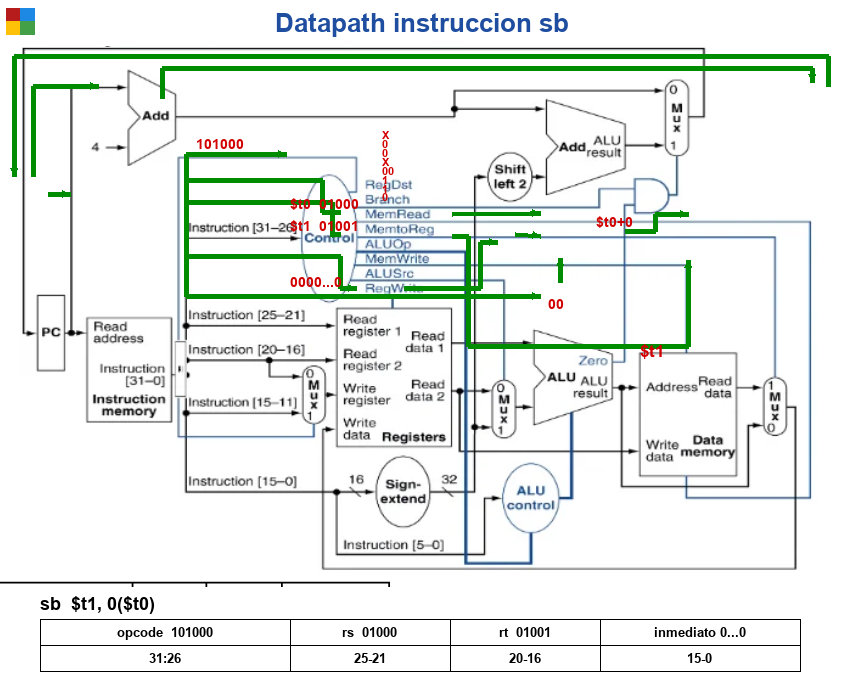
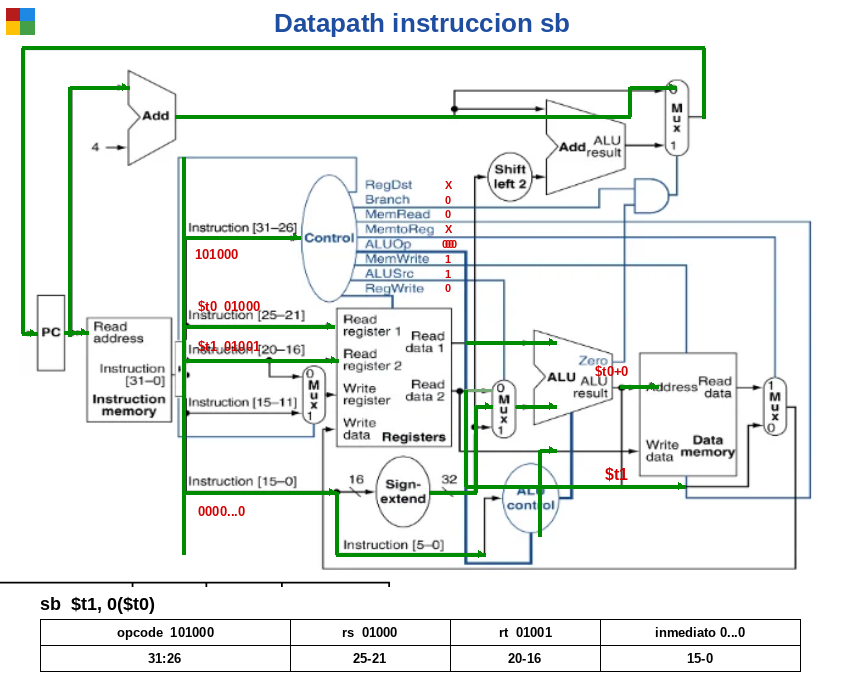
Corregir alineacion del datapath de sb midiendo coordenadas reales
El script anterior (gen_sb_v3.py) dibujaba las lineas verdes con
coordenadas estimadas a ojo que no coincidian con los buses del
diagrama base. gen_sb_v4.py mide las posiciones exactas de cada
wire/puerto por deteccion de pixeles sobre datapath_base_PH.png y
regenera figuras/slide_sb_PH.png con el camino activo alineado.

diff --git a/gen_sb_v4.py b/gen_sb_v4.py
@@ -1,0 +1,139 @@
+from PIL import Image, ImageDraw, ImageFont
+import math
+
+BASE = "datapath_base_PH.png"
+OUT = "figuras/slide_sb_PH.png"
+
+base = Image.open(BASE).convert("RGBA")
+W, H = base.size  # 844 x 541
+
+GREEN = (0, 140, 0, 255)
+RED   = (210, 0, 0, 255)
+ov = Image.new("RGBA", (W, H), (0, 0, 0, 0))
+d = ImageDraw.Draw(ov)
+LW = 4
+
+
+def seg(pts, color=GREEN, w=LW):
+    for i in range(len(pts) - 1):
+        d.line([pts[i], pts[i + 1]], fill=color, width=w)
+
+
+def tip(p1, p2, color=GREEN, w=LW):
+    d.line([p1, p2], fill=color, width=w)
+    a = math.atan2(p2[1] - p1[1], p2[0] - p1[0])
+    s = 7
+    d.polygon([p2,
+               (p2[0] - s * math.cos(a - 0.45), p2[1] - s * math.sin(a - 0.45)),
+               (p2[0] - s * math.cos(a + 0.45), p2[1] - s * math.sin(a + 0.45))],
+              fill=color)
+
+
+# ════════ CAMINO ACTIVO (verde) — coordenadas verificadas por deteccion de pixeles ════════
+
+# 1. PC -> Instruction memory (fetch)
+seg([(64, 286), (88, 286)]); tip((80, 286), (88, 286))
+
+# 2. PC -> Add (PC+4)
+seg([(70, 290), (70, 41), (129, 41)]); tip((122, 41), (129, 41))
+
+# 3. PC+4 (siempre activo): Add -> Mux(PCSrc, input 0) -> vuelta a PC
+seg([(175, 70), (630, 70), (630, 41), (676, 41)]); tip((668, 41), (676, 41))
+seg([(704, 72), (704, 2), (22, 2), (22, 287), (37, 287)]); tip((30, 287), (37, 287))
+
+# 4. Bus de instruccion (tronco vertical)
+seg([(183, 111), (183, 508)])
+
+# opcode [31-26] -> Control
+seg([(183, 191), (300, 191)]); tip((292, 191), (300, 191))
+# rs [25-21] -> Read register 1
+seg([(183, 280), (334, 280)]); tip((326, 280), (334, 280))
+# rt [20-16] -> Read register 2
+seg([(183, 314), (338, 314)]); tip((330, 314), (338, 314))
+# offset [15-0] -> Sign-extend
+seg([(183, 446), (336, 446)]); tip((328, 446), (336, 446))
+# funct [5-0] -> ALU control
+seg([(336, 446), (336, 508), (485, 508)]); tip((477, 508), (485, 508))
+
+# 5. Read data 1 ($t0) -> ALU (primer operando)
+seg([(465, 296), (556, 296)]); tip((548, 296), (556, 296))
+
+# 6. Read data 2 ($t1) -> MUX ALUSrc input 0 (no seleccionada)
+seg([(465, 344), (492, 344)], color=(120, 170, 120, 255), w=3)
+
+# 7. Read data 2 ($t1) -> Data memory Write data  (CAMINO DE STORE, clave)
+seg([(465, 344), (465, 440), (685, 440)]); tip((677, 440), (685, 440))
+
+# 8. Sign-extend (offset=0) -> MUX ALUSrc input 1 (SELECCIONADA, ALUSrc=1)
+seg([(429, 446), (476, 446), (476, 360), (492, 360)]); tip((484, 360), (492, 360))
+
+# 9. MUX ALUSrc -> ALU segundo operando
+seg([(516, 360), (556, 360)]); tip((548, 360), (556, 360))
+
+# 10. ALU control -> ALU (indica sumar)
+seg([(540, 490), (540, 404), (556, 404)]); tip((548, 404), (556, 404))
+
+# 11. ALU result -> Data memory Address
+seg([(620, 340), (658, 340)]); tip((650, 340), (658, 340))
+
+# ════════ INACTIVO: no se pinta (write-back, RegDst mux, Data memory read, branch, shift) ════════
+
+# ════════ VALORES EN ROJO ════════
+FONT_PATH = "/usr/share/fonts/truetype/liberation/LiberationSans-Bold.ttf"
+fr = ImageFont.truetype(FONT_PATH, 16)
+frs = ImageFont.truetype(FONT_PATH, 13)
+fsig = ImageFont.truetype(FONT_PATH, 11)
+
+
+def rt_text(xy, txt, font=fr, anchor="lm"):
+    d.text(xy, txt, fill=RED, font=font, anchor=anchor)
+
+
+rt_text((195, 208), "101000", frs)          # opcode sb (binario)
+rt_text((198, 260), "$t0  01000", frs)      # rs = $t0
+rt_text((198, 300), "$t1  01001", frs)      # rt = $t1 (dato a guardar)
+rt_text((198, 465), "0000...0", frs)        # inmediato (offset)
+rt_text((595, 325), "$t0+0", frs)           # direccion calculada por la ALU
+rt_text((605, 428), "$t1", fr)              # dato escrito en memoria
+rt_text((442, 198), "00", fsig)             # ALUOp
+
+# señales de control (a la derecha de sus etiquetas, misma fila que el texto azul)
+sig_vals = [("X", 139), ("0", 154), ("0", 168), ("X", 183),
+            ("00", 198), ("1", 213), ("1", 228), ("0", 242)]
+for v, y in sig_vals:
+    d.text((445, y), v, fill=RED, font=fsig, anchor="lm")
+
+result = Image.alpha_composite(base, ov).convert("RGB")
+
+# ════════ TITULO + acento ════════
+TH = 46
+TABL = 96
+final = Image.new("RGB", (W, H + TH + TABL), "white")
+td = ImageDraw.Draw(final)
+td.rectangle([(6, 8), (20, 21)], fill=(183, 28, 28))
+td.rectangle([(20, 8), (34, 21)], fill=(30, 136, 229))
+td.rectangle([(6, 21), (20, 34)], fill=(255, 193, 7))
+td.rectangle([(20, 21), (34, 34)], fill=(67, 160, 71))
+
+ft = ImageFont.truetype(FONT_PATH, 26)
+fi = ImageFont.truetype(FONT_PATH, 18)
+ftb = ImageFont.truetype(FONT_PATH, 13)
+td.text((W // 2, TH // 2), "Datapath instruccion sb", fill=(31, 78, 160), font=ft, anchor="mm")
+
+final.paste(result, (0, TH))
+
+# ════════ TABLA inferior ════════
+ty = TH + H
+td.text((40, ty + 16), "sb  $t1, 0($t0)", fill=(0, 0, 0), font=fi, anchor="lm")
+cols = [40, 290, 450, 600, 800]
+r1 = ["opcode  101000", "rs  01000", "rt  01001", "inmediato 0...0"]
+r2 = ["31:26", "25-21", "20-16", "15-0"]
+top = ty + 32
+for ri, row in enumerate([r1, r2]):
+    ry = top + ri * 26
+    for ci, (x0, x1) in enumerate(zip(cols[:-1], cols[1:])):
+        td.rectangle([(x0, ry), (x1, ry + 26)], outline=(0, 0, 0), width=1)
+        td.text(((x0 + x1) // 2, ry + 13), row[ci], fill=(0, 0, 0), font=ftb, anchor="mm")
+
+final.save(OUT, "PNG")
+print("OK", W, H + TH + TABL)
